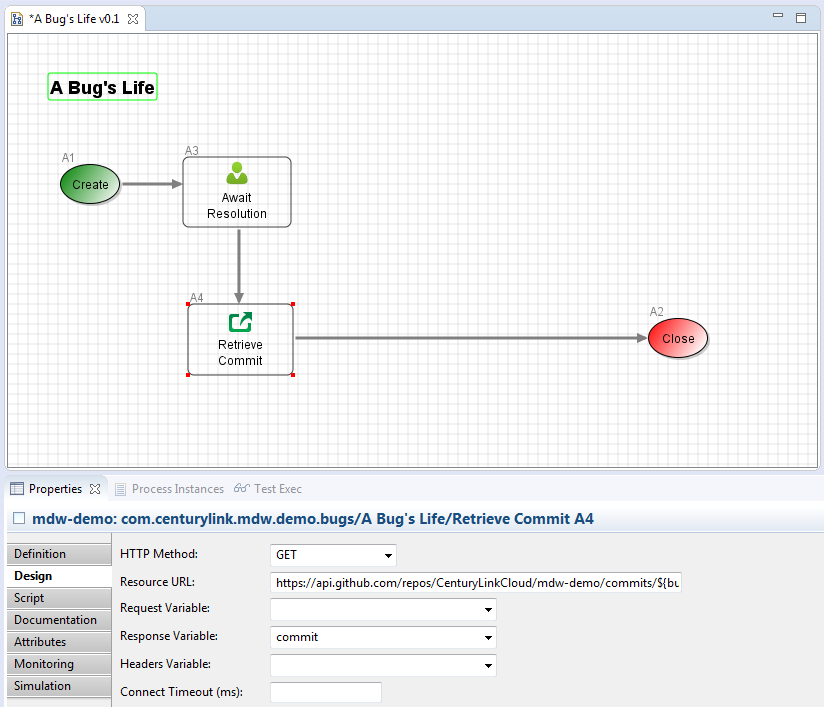
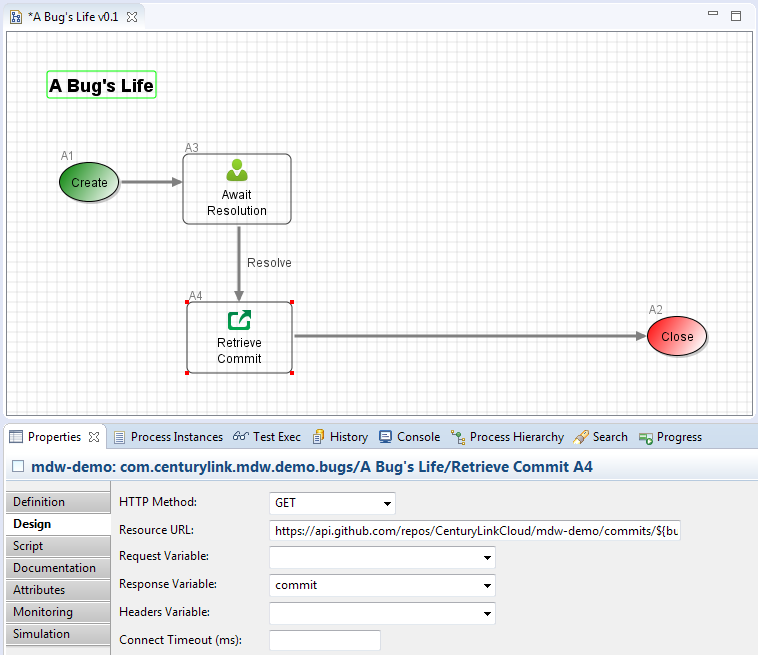
docs

diff --git a/docs/_docs/guides/mdw-cookbook.md b/docs/_docs/guides/mdw-cookbook.md
@@ -24,11 +24,13 @@ is available to clone in its completed state from the [mdw-demo repository](http
      - 2.4 [Create a Spring asset](#24-create-a-spring-asset)
      - 2.5 [Consume a REST service](#25-consume-a-rest-service)
   3. [Integrate a Custom Web UI](#3-integrate-a-custom-web-ui)
-     - 3.1: Custom bug submit page
-     - TODO: Custom task page
-  4. [Document and Run Automated Tests](#3-create-an-automated-test)
+     - 3.1 [Build a JSX task page](#31-build-a-jsx-task-page)
+     - 3.2 [Add a new tab to MDWHub](#32-add-a-new-tab-to-mdwhub)
+     - 3.3 [Create a process submit page](#33-create-a-process-submit-page)
+  4. [Document and Run Automated Tests](#TODO-create-an-automated-test)
      - TODO: document the Create Bug process
      - TODO: service test with workflow verification
+     - TODO: package-level error handlers
 
 ## 1. Implement a REST Service
 ### 1.1 Setup
@@ -253,7 +255,7 @@ is available to clone in its completed state from the [mdw-demo repository](http
     Here we're counting on Jsonable autobinding since we access request.title through its getter method, and we expect it to contain JSON title property value.
     We assign response to a StatusResponse, which is a built-in Jsonable representing an [HTTP Status Code](https://www.w3.org/Protocols/rfc2616/rfc2616-sec10.html).
     
-  - Save the Create Bug process after making these changes.  
+  - Save the Create Bug process after making these changes.
   
 #### Implement a JAX-RS REST endpoint
 
@@ -297,10 +299,17 @@ is available to clone in its completed state from the [mdw-demo repository](http
     For this you can use a tool like [Postman](https://www.getpostman.com/).
     Or if you don't feel like biting that off just now, MDWHub's System tab has a Messaging feature where you can submit simple HTTP requests.
     
+  - Whatever submit mechanism you use, post a request something like this:
+    ```json
+    {
+      "title": "This is a good bug",
+      "description": "Whatever that means"
+    }
+    ```
     Here's what a request and response look like when submitted through MDWHub:
     ![post bug](../images/post-bug.png)  
   
-    Something important to point out about our development cycle: Notice that we didn't perform any compilation step on our java source assets.
+    Something to point out about our development cycle: Notice that we didn't perform any compilation step on our java source assets.
     We simply saved them, and Designer told MDW server to refresh its asset cache to reflect our changes next time we ran.
   
   - After submitting a request, view the corresponding process instance in Designer or MDWHub.  Confirm that the "request" and "response"
@@ -553,9 +562,16 @@ is available to clone in its completed state from the [mdw-demo repository](http
     Manual tasks provide a great mechanism for humans to interact with workflows.  Aside from triggering actions, another key aspect
     of manual tasks in MDWHub is enabling data entry.  In [subsection 2.5](#25-consume-a-rest-service) we'll explore how, with 
     [AutoForm tasks](../../javadoc/com/centurylink/mdw/workflow/activity/task/AutoFormManualTaskActivity.html), 
-    data entry can be tied to variables through configuration, and a data-entry form is generated on the fly by MDWHub.
+    data entry can be tied to variables through configuration.  In this case a data-entry form is generated on-the-fly by MDWHub.
     Later, in [section 3](#3-integrate-a-custom-web-ui), we'll create an entirely custom web UI based around a 
     [Custom task](../../javadoc/com/centurylink/mdw/workflow/activity/task/CustomManualTaskActivity.html).
+    
+  - Before we move on, make one last change to "A Bug's Life".  On the Definition property tab of the outbound link from the manual
+    task activity, change the Result from blank to "Resolve" like so:<br> 
+    ![dynamic action](../images/dynamic-action.png)<br>
+    Setting the outbound link's result is a convenient way to customize the actions available for a given task.  Now if you resubmit
+    and claim the corresponding task, you'll see that "Resolve" replaces "Complete" in MDWHub's task action popover.  By branching into
+    two or more outgoing links from a manual task, you can give users the power to drive workflow outcomes through their task actions. 
     
 ### 2.4 Create a Spring asset
   MDW uses [Spring](https://spring.io/) internally, and one of the key extensibility mechanisms MDW provides is the ability to create
@@ -606,7 +622,7 @@ is available to clone in its completed state from the [mdw-demo repository](http
     change the Category to ISSUE - Bug.
     
   - While we're here let's explore some other aspects of manual tasks.  We could specify a [due interval](../../help/taskSLA.html)
-    in minutes or hours.  But a hardwired interval turns out to be not that useful.  Instead let's implement a
+    in minutes or hours.  But a hard-wired interval turns out to be not that useful.  Instead let's implement a
     [PrioritizationStrategy](../../javadoc/com/centurylink/mdw/observer/task/PrioritizationStrategy.html)
     to dynamically determine a task's priority level as well as when it's due.  In the com.centurylink.mdw.demo.bugs package
     create a new Java Source asset named Prioritization.java with 
@@ -664,28 +680,35 @@ is available to clone in its completed state from the [mdw-demo repository](http
         
   - Also on the activity Design tab, select GET for the HTTP Method, and in the Response Variable dropdown select 'response'.  We don't need a request
     variable for an HTTP GET.  Here's what the process should look like:
-    ![a bugs life 2](../images/a-bugs-life-2.png)<br>    
+    ![a bugs life 2](../images/a-bugs-life-2.png)<br> 
     
 #### Capture commitId via Autoform    
-  - Now we need a way for resolvers to enter the commit ID.  Open   
+  - Now we need a way for users to enter the commit ID when they resolve a bug.  Open ResolveBugAutoform.task again.  On the Variables design tab
+    enter expressions to show and capture data from the *bug* runtime value:<br>
+    ![autoform variables](../images/autoform-variables.png)<br>
   
-  - Save "A Bug's Life" now.  In section 3 we'll build a page to capture data related to bug tasks, where a resolver will enter the commit ID.
-    For the time being, to test our REST adapter we'll just submit a bug with commitId already populated.  Post a new request with something like this:
+  - Save ResolveBugAutoform.task and the process "A Bug's Life".  Post a new request with something like the following, (remembering to include the
+    `autoform` header):
     ```json
     {
-      "title": "Missing documentation on external Error Handler processes",
+      "title": "Missing documentation on package-level handlers",
       "description": "Someone needs to step up.  I'm not saying who...",
-      "severity": 2,
-      "commitId": "52c7b84"
+      "severity": 3
     }
     ```
-    The commitId above is the short form of a valid commit hash in mdw-demo on GitHub.
 
-  - Now check the Tasks tab in MDWHub and drill into the task for the bug you just submitted.  Claim and complete the task so then you can click
-    over to the Workflow tab, select "All Processes" in the dropdown, and set the Filter to Completed to see your the latest Bug's Life at the top.
-    Check the values to make sure that we got back a commit from GitHub.  Another item of note: if you click on the Retrieve Commit adapter you'll
+  - Now check the Tasks tab in MDWHub and drill into the task for the bug you just submitted.  Claim the task so that you can edit its data.
+    Now click on the Values nav link and you'll see the results of our autoform variables configuration.  Enter `52c7b84` for Commit:<br>
+    ![autoform](../images/autoform.png)<br>
+    The commitId above is the short form of a valid commit hash in mdw-demo on GitHub.  Click Save and then perform the Resolve action.
+    
+  - Click over to the Workflow tab in MDWHub.  Select "All Processes" in the dropdown, and set the Filter to Completed to see your the latest 
+    "A Bug's Life" at the top.  View the value of *bug* to confirm that the commit id we entered is reflected back into our workflow.
+    Check the value of *commit* to see what came back from GitHub.  Another item of note: if you click on the Retrieve Commit adapter you'll
     see that it has Requests and Responses property tabs where you can drill in to see other information like the URL and HTTP headers.
     
+    
+
     
     
     
